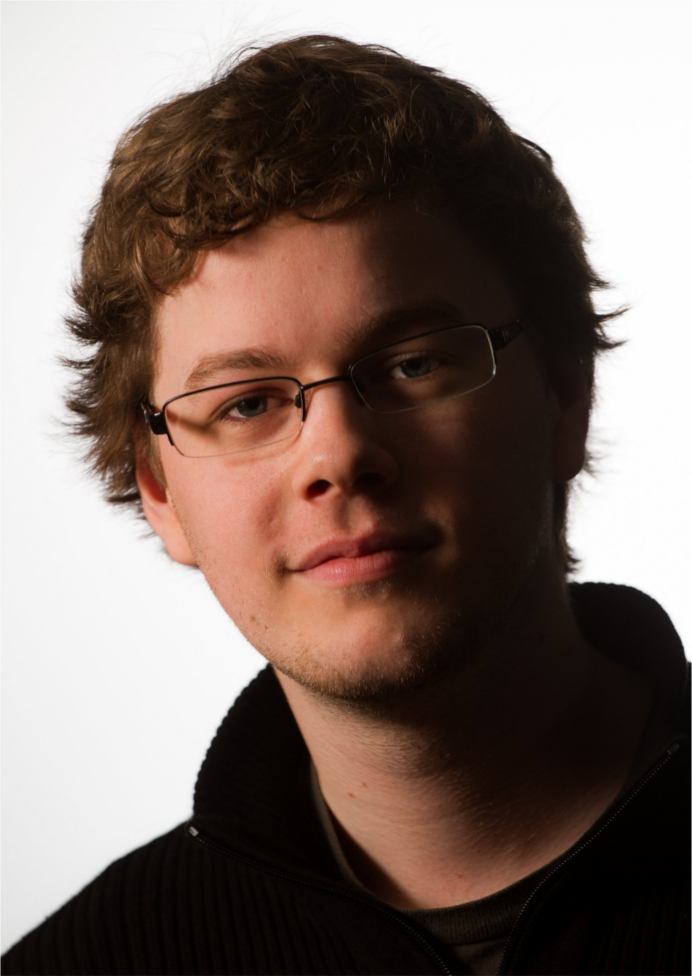
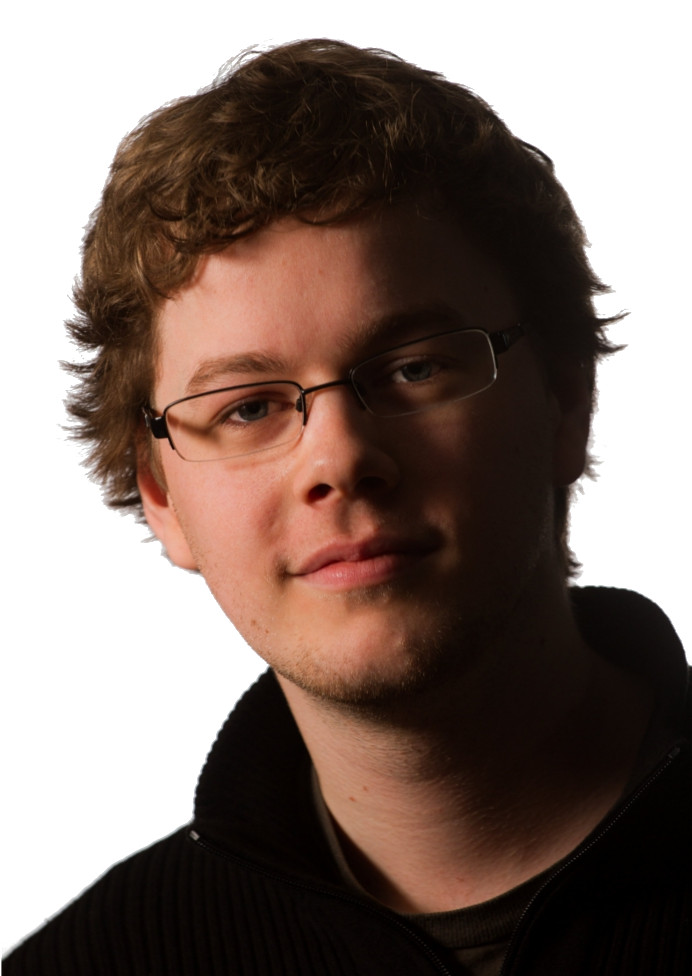
changement de l'image

diff --git a/src/components/Home.js b/src/components/Home.js
@@ -2,7 +2,7 @@ import React from "react";
 import Typed from 'react-typed';
 
 function Home() {
-
+  //incrémenter et décrementer entre 0 et 20 par exemple et entre 0 et 1000px (taille de la home) pour le blur
   return (
     <div id="home">
       <div className="graphic-container">

diff --git a/src/styles/Contact.scss b/src/styles/Contact.scss
@@ -196,7 +196,7 @@
     text-align: center;
     width: 240px;
     height: 240px;
-    background-color: #f5f5f5;
+    background-color: #ffffff;
     overflow: hidden;
     border-radius: 50%;
     border: 1px solid #ffffff;
